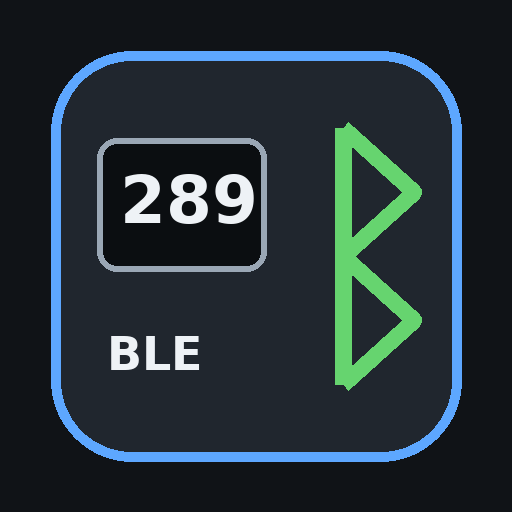
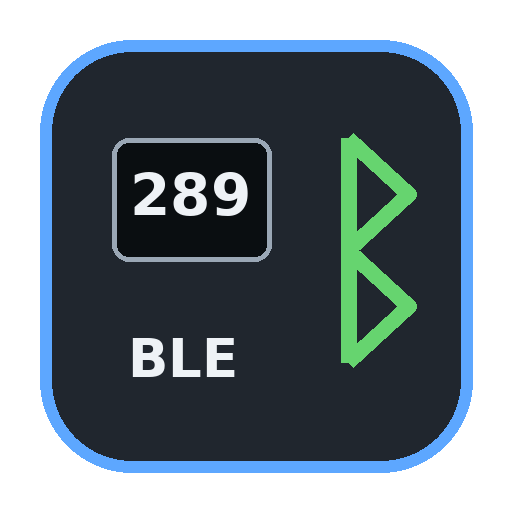
Add files via upload

diff --git a/index.html b/index.html
@@ -3,9 +3,10 @@
 <head>
 <meta charset="utf-8">
 <meta name="viewport" content="width=device-width,initial-scale=1,viewport-fit=cover">
-<link rel="manifest" href="./manifest.webmanifest">
-<link rel="icon" type="image/png" sizes="192x192" href="./icon-192.png">
-<link rel="apple-touch-icon" href="./icon-192.png">
+<link rel="manifest" href="./manifest.webmanifest?v=3">
+<link rel="icon" type="image/png" sizes="192x192" href="./icon-192.png?v=3">
+<link rel="icon" type="image/png" sizes="512x512" href="./icon-512.png?v=3">
+<link rel="apple-touch-icon" sizes="192x192" href="./icon-192.png?v=3">
 <meta name="mobile-web-app-capable" content="yes">
 <meta name="apple-mobile-web-app-capable" content="yes">
 <meta name="apple-mobile-web-app-status-bar-style" content="black-translucent">

diff --git a/sw.js b/sw.js
@@ -1,10 +1,11 @@
-const CACHE = 'ble-meter-pwa-v2';
+const CACHE = 'ble-meter-pwa-v3';
 const ASSETS = [
   './',
   './index.html',
   './manifest.webmanifest',
   './icon-192.png',
-  './icon-512.png'
+  './icon-512.png',
+  './icon-maskable-512.png'
 ];
 
 self.addEventListener('install', event => {
